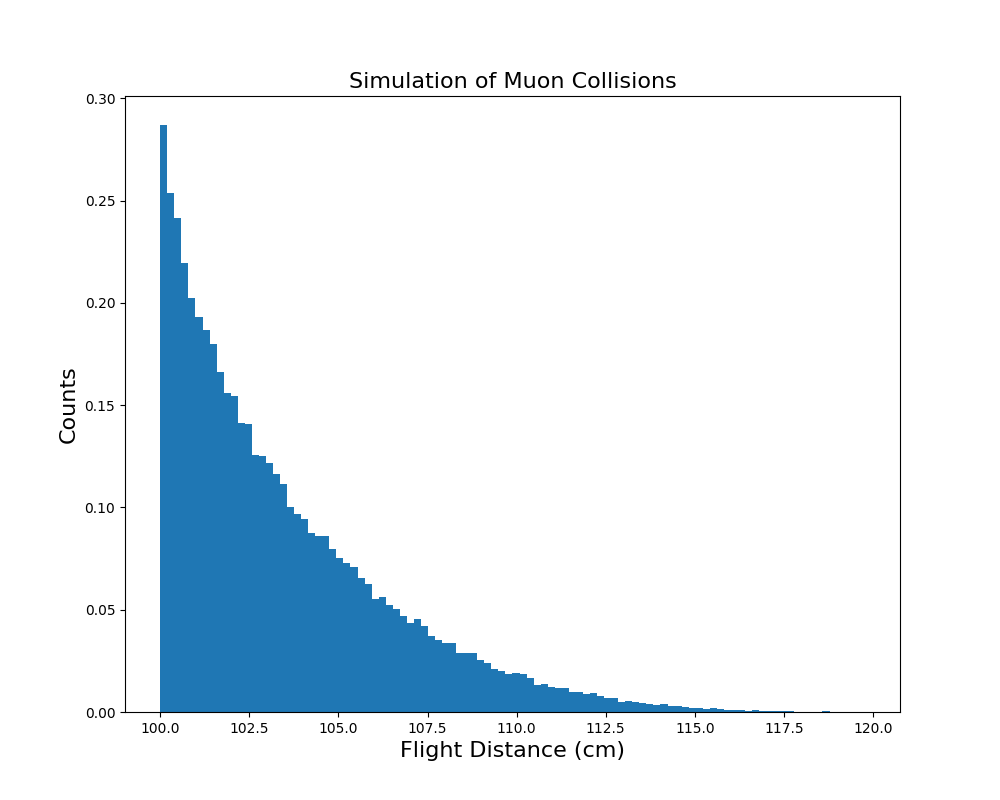
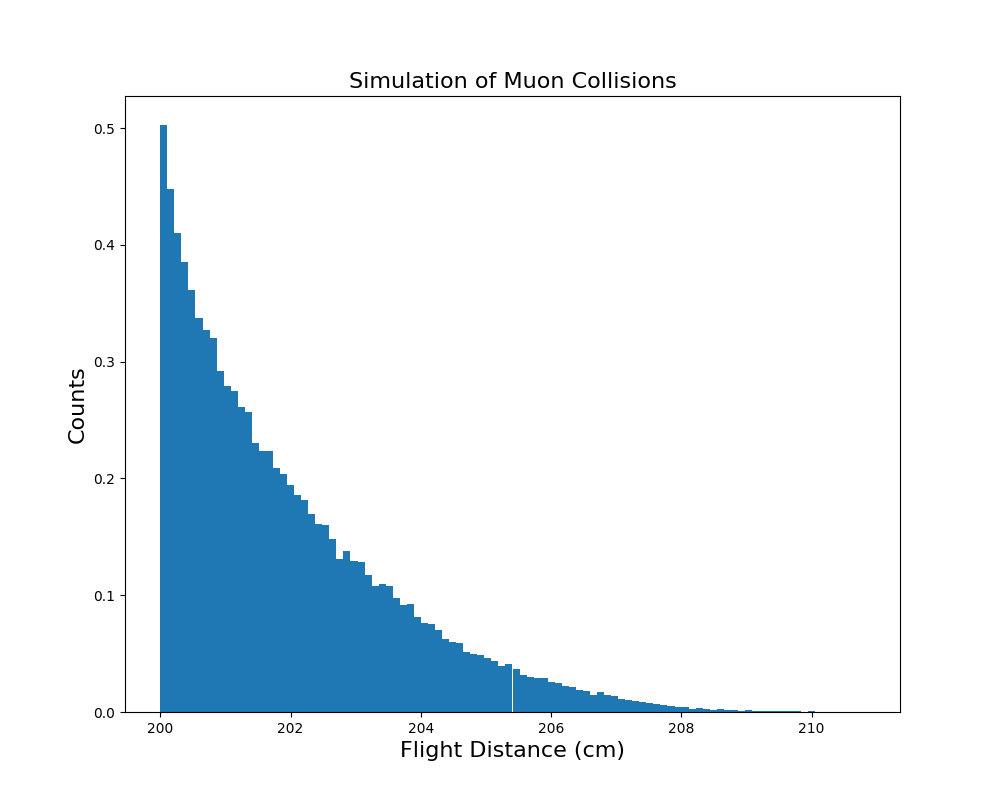
minor adjustments

diff --git a/Exp1-CosmicRayMuons/cccccccc.py b/Exp1-CosmicRayMuons/cccccccc.py
@@ -32,15 +32,17 @@ except:
         pickle.dump(corrected_distances, f)
         pickle.dump(corrected_distances_std, f)
 
-
+ 
 file_names = [str(d) + 'cm_final' for d in distances]
-
 # get the time of flight for each distance
 tofs = [get_tof(file_name)[0] for file_name in file_names]
 tof_errors = [get_tof(file_name)[1] for file_name in file_names]
 
+
 print(f"Loaded time-of-flights: {tofs}, {tof_errors}")
 # print(tofs)
+
+corrected_distances_std = [0,0,0,0,0]
 
 # plot the time of flight vs distance
 # plt.plot(corrected_distances, tofs, 'o')

diff --git a/Exp1-CosmicRayMuons/distance_distribution_MC.py b/Exp1-CosmicRayMuons/distance_distribution_MC.py
@@ -97,7 +97,7 @@ def get_mean_dist(d, N, verbose=False):
     return np.mean(data), np.std(data)/np.sqrt(len(data))
 
 if __name__ == '__main__':
-    data = MC_simulation(d=100, N=100000)
+    data = MC_simulation(d=200, N=100000)
     # print the mean distance
     print(np.mean(data))
     print(np.std(data)/np.sqrt(len(data)))

diff --git a/Exp1-CosmicRayMuons/velocity_analysis.py b/Exp1-CosmicRayMuons/velocity_analysis.py
@@ -77,7 +77,6 @@ def get_tof(filename, generate_plot=False):
     # find the index of the maxmium value of y_pred
     fit_peak = valid_centers[np.argmax(y_pred)]
     peak_error = np.sqrt(cov[0][0])
-
     if generate_plot:
         # plot the data and the fit
         plt.scatter(valid_centers, valid_data,alpha=0.5,marker=".")
